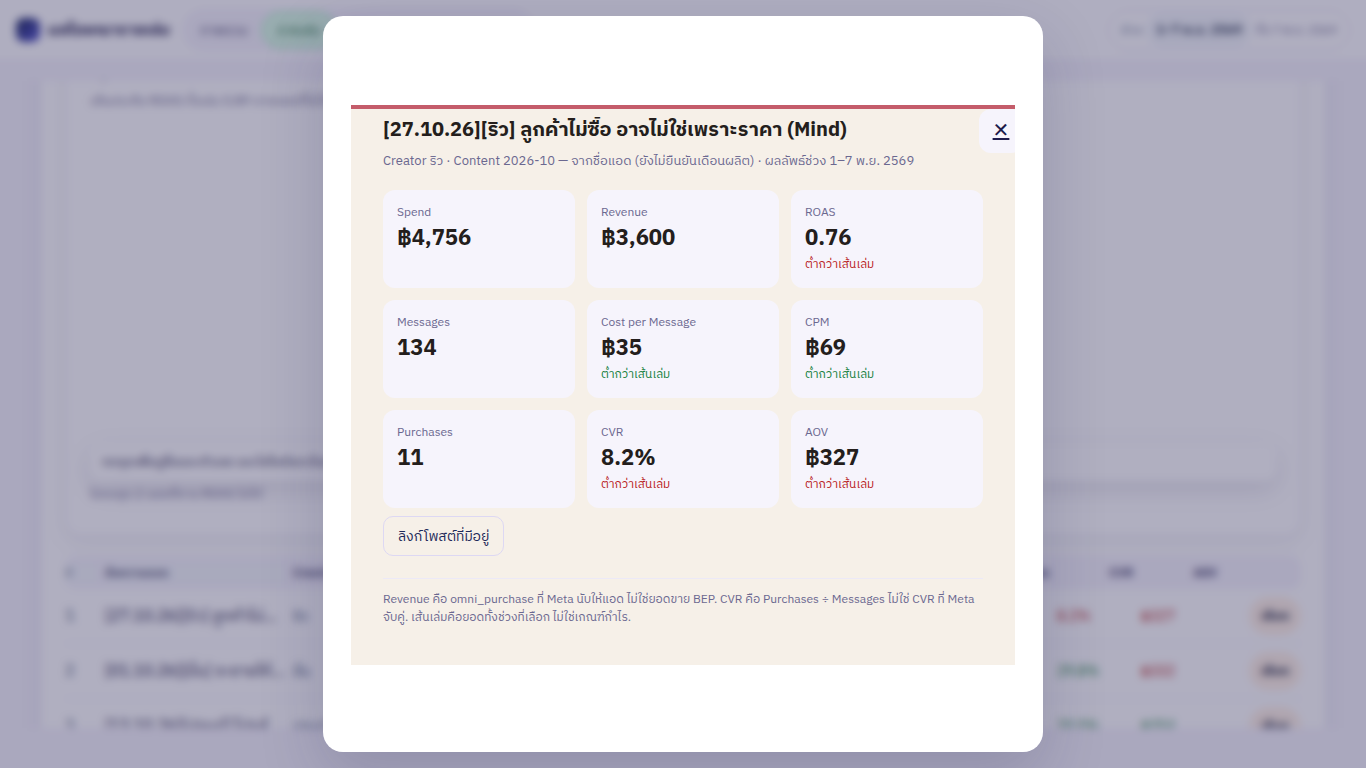
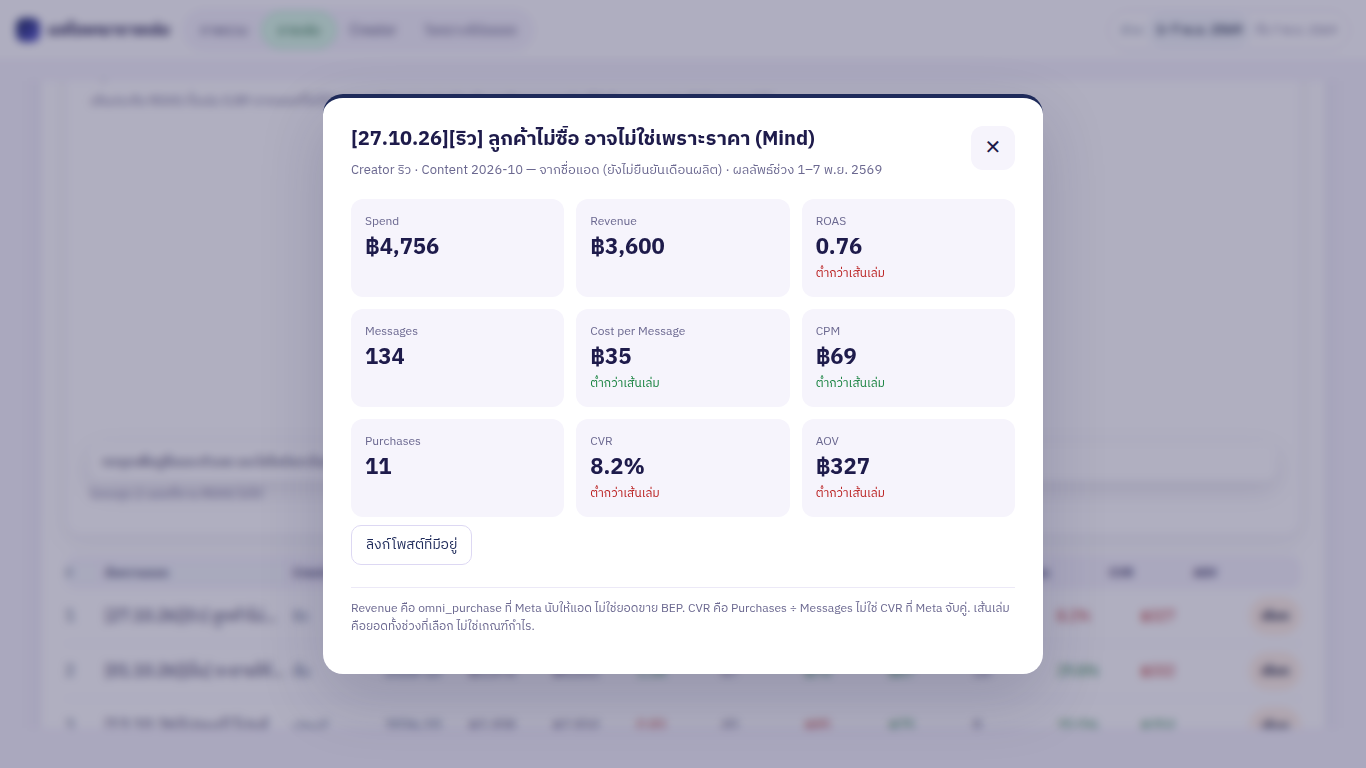
fix: use one dialog surface and one creator caption
The ad popup is a single white box with the book-color edge. Creator keeps one line above the chart and puts the sort control in the card header.

diff --git a/public/web.js b/public/web.js
@@ -1,12 +1,12 @@
-import { analysisItemId } from "/shared/analysis.js?v=20261109t111";
-import { rates } from "/shared/metrics.js?v=20261109t111";
-import { comparisonRows } from "/shared/comparison.js?v=20261109t111";
-import { FROZEN_PERFORMANCE } from "/shared/cutoff.js?v=20261109t111";
-import { changePct, metricTone, sameLengthBase, TONE_LABEL } from "/shared/conditional.js?v=20261109t111";
-import { contentBadge, STATUS_CHECKED_LABEL } from "/shared/status-labels.js?v=20261109t111";
-import { TABLE_HEAD } from "/shared/labels.js?v=20261109t111";
-import { OVERVIEW_METRICS, OVERVIEW_MONTHS, formatMetric, metricCell } from "/shared/history.js?v=20261109t111";
-import { filterAds, sortAds } from "/shared/ad-query.js?v=20261109t111";
+import { analysisItemId } from "/shared/analysis.js?v=20261109t112";
+import { rates } from "/shared/metrics.js?v=20261109t112";
+import { comparisonRows } from "/shared/comparison.js?v=20261109t112";
+import { FROZEN_PERFORMANCE } from "/shared/cutoff.js?v=20261109t112";
+import { changePct, metricTone, sameLengthBase, TONE_LABEL } from "/shared/conditional.js?v=20261109t112";
+import { contentBadge, STATUS_CHECKED_LABEL } from "/shared/status-labels.js?v=20261109t112";
+import { TABLE_HEAD } from "/shared/labels.js?v=20261109t112";
+import { OVERVIEW_METRICS, OVERVIEW_MONTHS, formatMetric, metricCell } from "/shared/history.js?v=20261109t112";
+import { filterAds, sortAds } from "/shared/ad-query.js?v=20261109t112";
 import {
   CREATOR_METRICS,
   UNKNOWN_LABEL,
@@ -17,8 +17,8 @@ import {
   reconcileCreators,
   sortCreators,
   unknownCreator,
-} from "/shared/creator-rank.js?v=20261109t111";
-import { renderPeriodChart, renderScatter, renderTrendChart } from "/chart-view.js?v=20261109t111";
+} from "/shared/creator-rank.js?v=20261109t112";
+import { renderPeriodChart, renderScatter, renderTrendChart } from "/chart-view.js?v=20261109t112";
 
 const BOOKS = [
   ["Mind", "ถือไพ่เหนือกว่า"],
@@ -512,47 +512,51 @@ function renderCreator(root, opts) {
   select.value = metric.key;
   select.addEventListener("change", () => opts.onCreatorMetric(select.value));
   metricLabel.append(select);
-  const dir = el("button", "creator-dir", sort.dir === "asc" ? "น้อยไปมาก" : "มากไปน้อย");
+  const dirText = sort.dir === "asc" ? "น้อยไปมาก" : "มากไปน้อย";
+  const dir = el("button", "creator-dir", dirText);
   dir.type = "button";
   dir.setAttribute("aria-pressed", "true");
   dir.addEventListener("click", () => opts.onCreatorSort(metric.key));
   controls.append(metricLabel, dir);
-  root.append(controls);
 
-  root.append(el("p", "creator-note", `${scopeName} · ${reportLabel(opts.reportId)} · ${sort.dir === "asc" ? "น้อยไปมาก" : "มากไปน้อย"} · ไม่ใช่อันดับคนเก่ง`));
-  root.append(el("p", "creator-note", scope === "all"
-    ? "รวม 4 เล่มที่ยืนยันแล้ว สินค้าไม่เหมือนกัน การเทียบในเล่มเดียวชัดกว่า"
-    : "เทียบในเล่มนี้เล่มเดียว"));
+  const caption = el("div", "page-caption");
+  caption.append(el("p", "creator-note", `${scopeName} · ${reportLabel(opts.reportId)} · เรียงตาม ${metric.label} ${dirText}`));
+  const method = el("details", "history-method");
+  method.append(el("summary", "", "วิธีนับ"));
   const cover = coverage.total === 0
     ? "ไม่มีรายการที่ยืนยันได้"
     : coverage.blank === 0
       ? `ช่วงนี้มีป้าย Creator ครบ ${coverage.tagged} จาก ${coverage.total} แอด ไม่ได้เดาชื่อเพิ่ม`
       : `ช่วงนี้มีป้าย Creator ${coverage.tagged} จาก ${coverage.total} แอด อีก ${coverage.blank} แอดไม่มีป้ายในชุดนี้ จึงอยู่กลุ่มไม่ทราบ Creator ไม่ได้เดาจากชื่อแอด`;
-  root.append(el("p", "creator-note", cover));
-  if (check.ok && coverage.total > 0) {
-    root.append(el("p", "creator-note", "ยอดทุกป้าย รวมกลุ่มไม่ทราบ Creator เท่ากับยอดชุดนี้ในช่วงที่เลือก"));
-  }
+  method.append(el("p", "creator-note", [
+    scope === "all" ? "รวม 4 เล่มที่ยืนยันแล้ว สินค้าไม่เหมือนกัน การเทียบในเล่มเดียวชัดกว่า" : "เทียบในเล่มนี้เล่มเดียว",
+    "ไม่ใช่อันดับคนเก่ง",
+    cover,
+    check.ok && coverage.total > 0 ? "ยอดทุกป้าย รวมกลุ่มไม่ทราบ Creator เท่ากับยอดชุดนี้ในช่วงที่เลือก" : "",
+    "จัดตามป้าย Creator ที่เก็บไว้ในชุดนี้ ไม่ได้เดาจากวงเล็บในชื่อแอด. Central, Central+Leef, Central+Park และ Central+Phum เป็นคนละแถว. ป้ายร่วมอยู่แถวเดียว ไม่ได้แบ่งยอดให้หลายคน. การจัดกลุ่มไม่ใช่สาเหตุของยอด และไม่ใช่ยอดขายทั้งธุรกิจ. Revenue คือ omni_purchase. CVR คือ Purchases ÷ Messages. พ.ค.–ส.ค. มีแอดที่ไม่มีป้าย ส่วน ก.ย., ต.ค. และ 1–7 พ.ย. มีป้ายครบในชุดนี้.",
+  ].filter(Boolean).join(" ")));
+  caption.append(method);
+  root.append(caption);
 
   if (!ranked.length && !unknown) {
     root.append(el("p", "history-help", "ไม่มีรายการที่ยืนยันได้"));
     return;
   }
 
-  root.append(creatorChart(ranked, metric, opts));
+  root.append(creatorChart(ranked, metric, opts, controls));
   root.append(creatorTable(ranked, metric, sort, opts));
   if (unknown) root.append(unknownBlock(unknown, opts));
   if (opts.creatorFocus != null) root.append(creatorAds(groups, opts));
 
-  const method = el("details", "history-method");
-  method.append(el("summary", "", "วิธีจัดกลุ่ม"));
-  method.append(el("p", "creator-note", "จัดตามป้าย Creator ที่เก็บไว้ในชุดนี้ ไม่ได้เดาจากวงเล็บในชื่อแอด. Central, Central+Leef, Central+Park และ Central+Phum เป็นคนละแถว. ป้ายร่วมอยู่แถวเดียว ไม่ได้แบ่งยอดให้หลายคน. การจัดกลุ่มไม่ใช่สาเหตุของยอด และไม่ใช่ยอดขายทั้งธุรกิจ. Revenue คือ omni_purchase. CVR คือ Purchases ÷ Messages. พ.ค.–ส.ค. มีแอดที่ไม่มีป้าย ส่วน ก.ย., ต.ค. และ 1–7 พ.ย. มีป้ายครบในชุดนี้."));
-  root.append(method);
 }
 
 /** Provisional bars only. Replace this view when the data and design review lands. The table is the figure of record. */
-function creatorChart(ranked, metric, opts) {
+function creatorChart(ranked, metric, opts, controls) {
   const section = el("section", "chart-block creator-chart");
-  section.append(el("h3", "", `${metric.label} ของแต่ละ Creator`));
+  const head = el("div", "chart-head");
+  head.append(el("h3", "", `${metric.label} ของแต่ละ Creator`));
+  if (controls) head.append(controls);
+  section.append(head);
   const finite = ranked.map((row) => row[metric.key]).filter((value) => value != null && Number.isFinite(Number(value)));
   const max = finite.length ? Math.max(...finite.map(Number)) : 0;
   if (!ranked.length) {
@@ -841,7 +845,7 @@ function openDetail(ad, record, opts) {
   detailReturn = document.activeElement;
   const bookId = ad.book || opts.book;
   dialog.dataset.book = bookId || "";
-  document.getElementById("detail-strip").style.background = BOOK_COLOR[bookId] || "#5B5BD6";
+  dialog.style.borderTopColor = BOOK_COLOR[bookId] || "#5B5BD6";
   document.getElementById("detail-name").textContent = ad.adName;
   const content = contentBadge(record);
   document.getElementById("detail-meta").textContent = [

diff --git a/public/styles.css b/public/styles.css
@@ -1226,28 +1226,46 @@ body.mode-web .metric-scroll, body.mode-web .creator-table-wrap { border: 0; box
 body.mode-web #zoom {
   width: min(720px, calc(100vw - 32px));
   max-width: 720px;
+  height: fit-content;
+  max-height: calc(100vh - 32px);
+  margin: auto;
   border: 0;
+  border-top: 4px solid #1E2A5A;
   border-radius: 20px;
   padding: 28px;
   background: #fff;
   color: #1E1B4B;
+  overflow: auto;
   box-shadow: 0 24px 64px rgba(30, 27, 75, .18);
 }
 body.mode-web #zoom::backdrop { background: rgba(30, 27, 75, .35); backdrop-filter: blur(4px); }
-body.mode-web #zoom form { position: relative; padding-top: 8px; }
-body.mode-web .detail-strip { position: absolute; left: -28px; right: -28px; top: -28px; height: 4px; border-radius: 20px 20px 0 0; }
+body.mode-web #zoom form {
+  position: relative;
+  width: auto;
+  max-height: none;
+  margin: 0;
+  padding: 0;
+  background: transparent;
+  color: inherit;
+  border: 0;
+  overflow: visible;
+}
+body.mode-web .detail-strip { display: none; }
 body.mode-web .detail-close {
   position: absolute;
-  top: -8px;
-  right: -8px;
+  top: 0;
+  right: 0;
   width: 44px;
   height: 44px;
   min-height: 44px;
+  margin: 0;
   padding: 0;
+  border: 0;
   border-radius: 12px;
   background: #F6F4FC;
   color: #1E1B4B;
   font-size: 20px;
+  text-decoration: none;
 }
 body.mode-web #zoom h2 { font-size: 20px; font-weight: 700; line-height: 1.35; max-height: 2.7em; overflow: hidden; padding-right: 48px; }
 body.mode-web #detail-meta { color: #6B6890; font-size: 13px; }
@@ -1273,5 +1291,12 @@ body.mode-web #detail-note { margin-top: 12px; padding-top: 12px; border-top: 1p
   body.mode-web .trend-grid, body.mode-web .hero-main { grid-template-columns: 1fr; }
   body.mode-web .hero-rest, body.mode-web #detail-metrics { grid-template-columns: 1fr 1fr; }
   body.mode-web .period-row, body.mode-web .creator-bar { grid-template-columns: 1fr; }
-  body.mode-web #zoom { width: 100vw; max-width: 100vw; margin: auto 0 0; border-radius: 20px 20px 0 0; }
+  body.mode-web #zoom {
+    width: 100vw;
+    max-width: 100vw;
+    height: fit-content;
+    max-height: 92vh;
+    margin: auto 0 0;
+    border-radius: 20px 20px 0 0;
+  }
 }

diff --git a/test/ui.test.js b/test/ui.test.js
@@ -294,7 +294,7 @@ test("November overview and Mind book stay on the selected period", async () => 
     await page.waitForSelector(".creator-table");
     assert.match(await page.$eval("h2", (node) => node.textContent), /เรียงตาม Spend/);
     assert.equal(await page.$eval("[data-creator-scope='all']", (node) => node.getAttribute("aria-pressed")), "true");
-    assert.match(await page.$eval("body", (node) => node.innerText), /สินค้าไม่เหมือนกัน/);
+    assert.match(await page.$eval("body", (node) => node.textContent), /สินค้าไม่เหมือนกัน/);
     await page.screenshot({ path: "/opt/cursor/artifacts/creator-overall-1366.png" });
     await page.screenshot({ path: "/workspace/docs/progress/creator-overall-1366.png" });
     await page.click("[data-creator-scope='Mind']");
@@ -336,7 +336,7 @@ test("November overview and Mind book stay on the selected period", async () => 
     await page.click("[data-creator-scope='all']");
     await page.select("#report-period", "may");
     await page.waitForFunction(() => document.body.innerText.includes("ไม่ทราบ Creator"));
-    assert.match(await page.$eval("body", (node) => node.innerText), /ไม่ได้เดาจากชื่อแอด/);
+    assert.match(await page.$eval("body", (node) => node.textContent), /ไม่ได้เดาจากชื่อแอด/);
     await page.select("#report-period", "nov1_7");
     await page.waitForSelector(".creator-row");
     await page.setViewport({ width: 1024, height: 768 });

diff --git a/public/app.js b/public/app.js
@@ -1,11 +1,11 @@
-import { analysisItemId } from "/shared/analysis.js?v=20261109t111";
-import { changePct, metricTone, TONE_LABEL } from "/shared/conditional.js?v=20261109t111";
-import { TABLE_HEAD } from "/shared/labels.js?v=20261109t111";
-import { rates, sumTotals, volumeFlag } from "/shared/metrics.js?v=20261109t111";
-import { MAX_NOTE, NOTE_IDS, SLIDE_IDS } from "/shared/slides.js?v=20261109t111";
-import { contentBadge } from "/shared/status-labels.js?v=20261109t111";
-import { renderWeb } from "/web.js?v=20261109t111";
-import { defaultCreatorDir } from "/shared/creator-rank.js?v=20261109t111";
+import { analysisItemId } from "/shared/analysis.js?v=20261109t112";
+import { changePct, metricTone, TONE_LABEL } from "/shared/conditional.js?v=20261109t112";
+import { TABLE_HEAD } from "/shared/labels.js?v=20261109t112";
+import { rates, sumTotals, volumeFlag } from "/shared/metrics.js?v=20261109t112";
+import { MAX_NOTE, NOTE_IDS, SLIDE_IDS } from "/shared/slides.js?v=20261109t112";
+import { contentBadge } from "/shared/status-labels.js?v=20261109t112";
+import { renderWeb } from "/web.js?v=20261109t112";
+import { defaultCreatorDir } from "/shared/creator-rank.js?v=20261109t112";
 
 const BOOKS = [
   { id: "Mind", name: "ถือไพ่เหนือกว่า", cls: "mind" },

diff --git a/public/index.html b/public/index.html
@@ -4,7 +4,7 @@
   <meta charset="utf-8">
   <meta name="viewport" content="width=device-width, initial-scale=1">
   <title>ผลโฆษณารายเล่ม</title>
-  <link rel="stylesheet" href="/styles.css?v=20261109t111">
+  <link rel="stylesheet" href="/styles.css?v=20261109t112">
 </head>
 <body class="mode-web">
   <div id="boot-error" hidden></div>
@@ -45,7 +45,7 @@
       <p id="detail-note"></p>
     </form>
   </dialog>
-  <script src="/boot.js?v=20261109t111"></script>
-  <script type="module" src="/app.js?v=20261109t111"></script>
+  <script src="/boot.js?v=20261109t112"></script>
+  <script type="module" src="/app.js?v=20261109t112"></script>
 </body>
 </html>

diff --git a/public/login.html b/public/login.html
@@ -4,7 +4,7 @@
   <meta charset="utf-8">
   <meta name="viewport" content="width=device-width, initial-scale=1">
   <title>เข้าสู่ระบบ — ผลโฆษณารายเล่ม</title>
-  <link rel="stylesheet" href="/styles.css?v=20261109t111">
+  <link rel="stylesheet" href="/styles.css?v=20261109t112">
 </head>
 <body class="gate">
   <main class="gate-card">
@@ -16,6 +16,6 @@
       <p id="login-error" class="login-error"></p>
     </form>
   </main>
-  <script type="module" src="/login.js?v=20261109t111"></script>
+  <script type="module" src="/login.js?v=20261109t112"></script>
 </body>
 </html>

diff --git a/public/chart-view.js b/public/chart-view.js
@@ -9,8 +9,8 @@ import {
   trendScale,
   trendSegments,
   trendSeries,
-} from "/shared/chart-data.js?v=20261109t111";
-import { metricCell } from "/shared/history.js?v=20261109t111";
+} from "/shared/chart-data.js?v=20261109t112";
+import { metricCell } from "/shared/history.js?v=20261109t112";
 
 const BOOK_COLOR = {
   Mind: "#1E2A5A",
